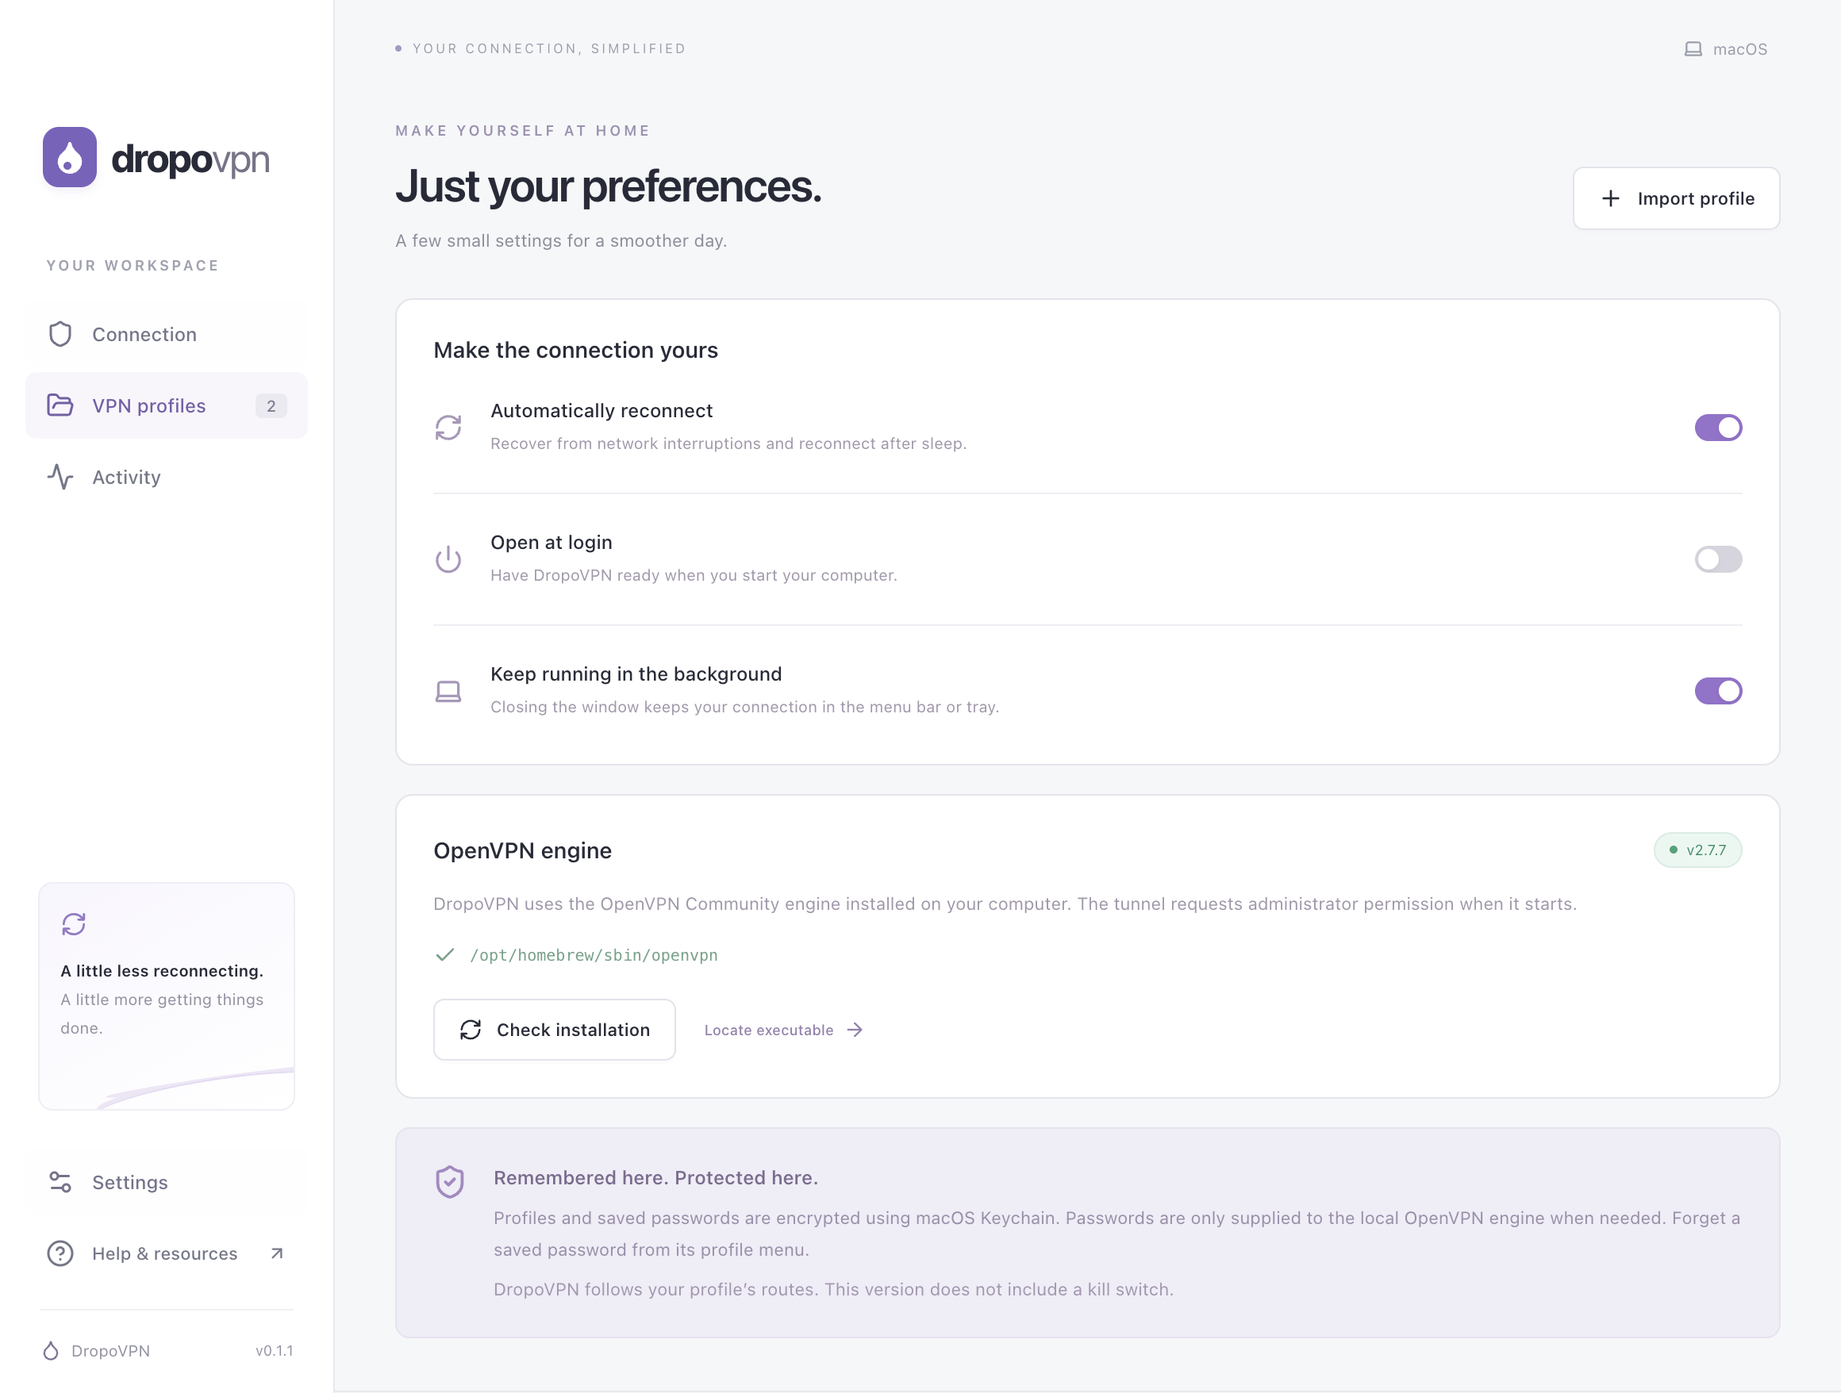
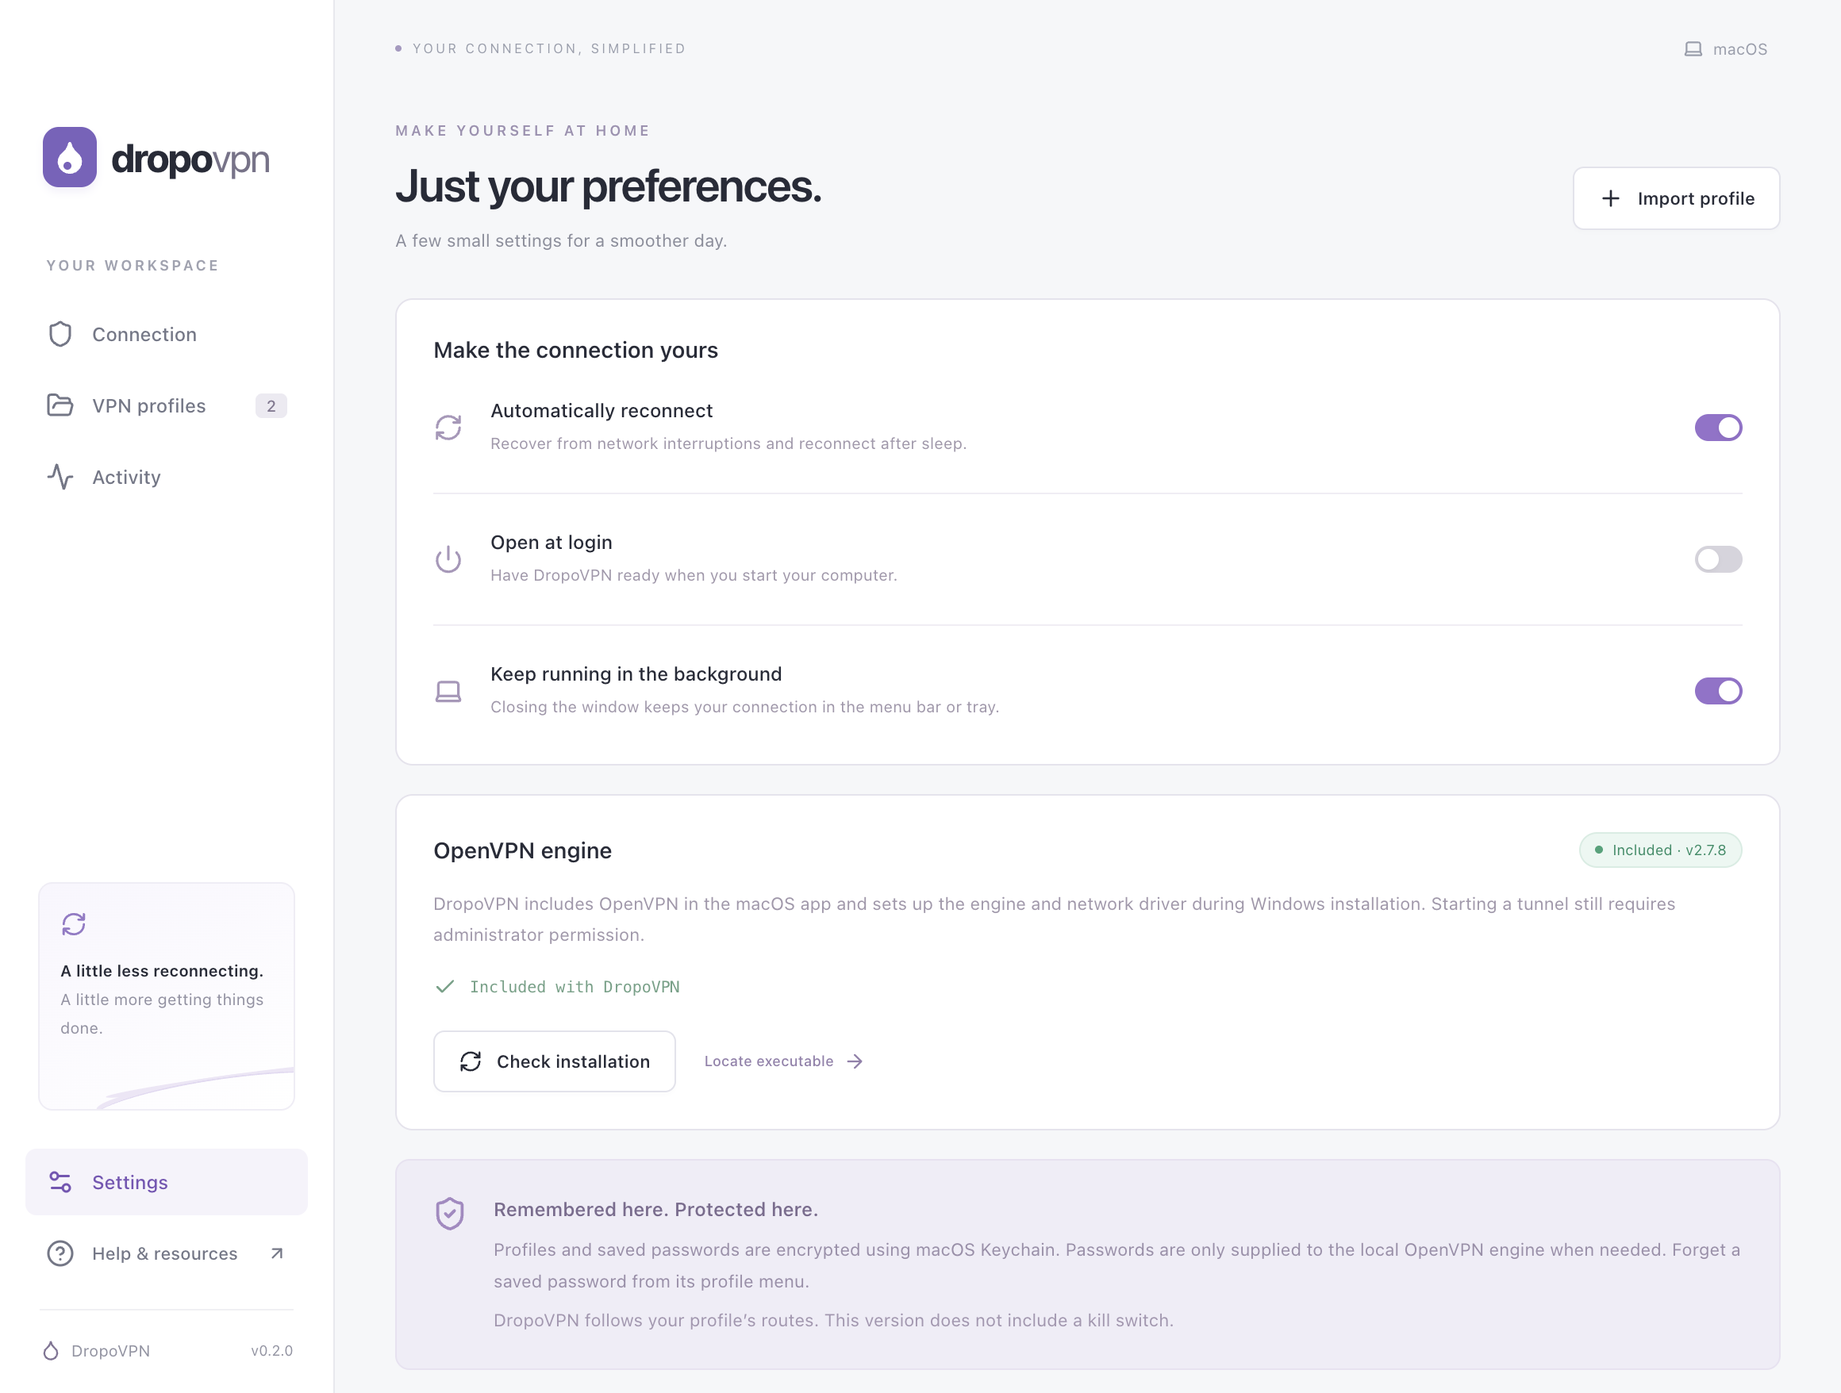
Document the all-in-one installers and refresh download screenshots

diff --git a/website/index.html b/website/index.html
@@ -24,7 +24,7 @@
   </header>
   <main id="main">
     <section class="hero wrap">
-      <a class="release-pill" href="https://github.com/samnimoh/dropovpn/releases/tag/v0.1.1"><span>PUBLIC PREVIEW</span> Meet DropoVPN 0.1.1</a>
+      <a class="release-pill" href="https://github.com/samnimoh/dropovpn/releases/tag/v0.2.0"><span>PUBLIC PREVIEW</span> Meet DropoVPN 0.2.0</a>
       <h1>A calmer connection.<br><em>One less interruption.</em></h1>
       <p class="hero-copy">An OpenVPN client that finds its way back when your network drops. Bring your profile, remember your password, and get on with your day.</p>
       <div class="hero-actions"><a class="button" href="#download">Get DropoVPN</a><a class="button secondary" href="https://github.com/samnimoh/dropovpn">Explore the source</a></div>
@@ -50,21 +50,22 @@
       </div>
     </section>
     <section class="download wrap section" id="download">
-      <div class="center-heading"><p class="eyebrow">MAKE YOURSELF AT HOME</p><h2>Your next connection starts here.</h2><p>DropoVPN 0.1.1 · Public preview · MIT licensed</p></div>
+      <div class="center-heading"><p class="eyebrow">MAKE YOURSELF AT HOME</p><h2>Your next connection starts here.</h2><p>DropoVPN 0.2.0 · Public preview · MIT licensed</p></div>
       <div class="download-grid">
-        <article class="download-card"><span class="platform-label">FOR YOUR MAC</span><h3>macOS</h3><p>Apple Silicon · ARM64</p><a class="button download-button" href="https://github.com/samnimoh/dropovpn/releases/download/v0.1.1/DropoVPN-0.1.1-mac-arm64.dmg">Download for macOS <span>.dmg</span></a><a class="sub-link" href="https://github.com/samnimoh/dropovpn/releases/download/v0.1.1/DropoVPN-0.1.1-mac-arm64.zip">Prefer a ZIP? Download the archive</a><div class="requirements"><strong>Before connecting</strong><p>Install OpenVPN Community 2.6+ with <code>brew install openvpn</code>. An Intel Mac build is not included in this release.</p></div></article>
-        <article class="download-card"><span class="platform-label">FOR YOUR PC</span><h3>Windows</h3><p>Intel & AMD · x64</p><a class="button download-button" href="https://github.com/samnimoh/dropovpn/releases/download/v0.1.1/DropoVPN-0.1.1-win-x64.exe">Download for Windows <span>.exe</span></a><a class="sub-link" href="https://openvpn.net/community-downloads/">Get the OpenVPN Community engine</a><div class="requirements"><strong>Before connecting</strong><p>Install OpenVPN Community 2.6+ including its network driver. Windows ARM devices are not tested.</p></div></article>
+        <article class="download-card"><span class="platform-label">FOR YOUR MAC</span><h3>macOS</h3><p>Apple Silicon · ARM64 · macOS 13+</p><a class="button download-button" href="https://github.com/samnimoh/dropovpn/releases/download/v0.2.0/DropoVPN-0.2.0-mac-arm64.dmg">Download for macOS <span>.dmg</span></a><a class="sub-link" href="https://github.com/samnimoh/dropovpn/releases/download/v0.2.0/DropoVPN-0.2.0-mac-arm64.zip">Prefer a ZIP? Download the archive</a><div class="requirements"><strong>OpenVPN is included</strong><p>Move DropoVPN to Applications and import your profile. No Homebrew or separate engine setup needed. An Intel Mac build is not included in this release.</p></div></article>
+        <article class="download-card"><span class="platform-label">FOR YOUR PC</span><h3>Windows</h3><p>Intel & AMD · x64</p><a class="button download-button" href="https://github.com/samnimoh/dropovpn/releases/download/v0.2.0/DropoVPN-0.2.0-win-x64.exe">Download for Windows <span>.exe</span></a><a class="sub-link" href="#setup">One installer for the app, engine, and driver</a><div class="requirements"><strong>Everything in one setup</strong><p>The installer sets up OpenVPN and its signed network driver. Approve the administrator prompt and restart if requested. Windows ARM devices are not tested.</p></div></article>
       </div>
-      <aside class="preview-note"><strong>A note about this preview</strong><p>These installers are unsigned; macOS and Windows may display security warnings. macOS notarization is not included. Windows runtime behavior and live VPN routing still need testing. Use a VPN profile from a provider or IT team you trust.</p><p>DropoVPN is a client, not a VPN service. The OpenVPN engine and a working profile are required separately. OpenVPN Connect does not supply the engine DropoVPN needs.</p></aside>
-      <div class="release-links"><a href="https://github.com/samnimoh/dropovpn/releases/tag/v0.1.1">Release notes & all files</a><span>·</span><a href="https://github.com/samnimoh/dropovpn/releases/download/v0.1.1/SHA256SUMS.txt">SHA-256 checksums</a></div>
+      <aside class="preview-note"><strong>A note about this preview</strong><p>These installers are unsigned; macOS and Windows may display security warnings. macOS notarization is not included. Live VPN routing and reconnection still need testing with your server. Use a VPN profile from a provider or IT team you trust.</p><p>DropoVPN is a client, not a VPN service. OpenVPN 2.7.8 is included; you bring a working .ovpn profile from your provider or IT team. Starting a tunnel still requires administrator permission.</p></aside>
+      <div class="release-links"><a href="https://github.com/samnimoh/dropovpn/releases/tag/v0.2.0">Release notes & all files</a><span>·</span><a href="https://github.com/samnimoh/dropovpn/releases/download/v0.2.0/SHA256SUMS.txt">SHA-256 checksums</a></div>
     </section>
-    <section class="setup wrap section" id="setup"><div class="section-intro"><p class="eyebrow">THREE SMALL STEPS</p><h2>Bring your own<br>connection.</h2><p>No new account to create. Use the network and credentials you already have.</p></div><ol class="steps"><li><span>1</span><div><h3>Install the app and engine.</h3><p>Download DropoVPN for your computer and install OpenVPN Community 2.6 or later.</p></div></li><li><span>2</span><div><h3>Import your .ovpn profile.</h3><p>Choose “Import profile” and select the file from your VPN provider or IT team. Keep any separate certificates alongside the file.</p></div></li><li><span>3</span><div><h3>Connect. Remember. Settle in.</h3><p>Enter your VPN credentials and choose “Remember me on this device.” Approve the system administrator prompt to start your tunnel.</p></div></li></ol></section>
+    <section class="setup wrap section" id="setup"><div class="section-intro"><p class="eyebrow">THREE SMALL STEPS</p><h2>Bring your own<br>connection.</h2><p>No new account to create. Use the network and credentials you already have.</p></div><ol class="steps"><li><span>1</span><div><h3>Install once.</h3><p>Download DropoVPN for your computer. The Mac app contains its engine; Windows setup installs the engine and network driver for you.</p></div></li><li><span>2</span><div><h3>Import your .ovpn profile.</h3><p>Choose “Import profile” and select the file from your VPN provider or IT team. Keep any separate certificates alongside the file.</p></div></li><li><span>3</span><div><h3>Connect. Remember. Settle in.</h3><p>Enter your VPN credentials and choose “Remember me on this device.” Approve the system administrator prompt to start your tunnel.</p></div></li></ol></section>
     <section class="faq wrap section" aria-labelledby="faq-title"><div><p class="eyebrow">GOOD TO KNOW</p><h2 id="faq-title">A little clarity.</h2></div><div class="questions">
       <details><summary>What happens when my connection drops?</summary><p>With automatic reconnection enabled, DropoVPN retries using the same session credentials. Retry delays increase up to 30 seconds. Rejected passwords pause the connection so you can correct them. If the engine exits and must restart, your computer may ask for administrator permission again. Disconnecting manually stops retries.</p></details>
       <details><summary>Where are my saved passwords stored?</summary><p>On your computer, encrypted with Electron safeStorage using macOS Keychain or Windows DPAPI. DropoVPN supplies credentials to the local OpenVPN engine when needed. You can forget a saved password from the profile menu. Windows DPAPI does not protect against every program running as your Windows user.</p></details>
       <details><summary>Does it work with my existing VPN?</summary><p>DropoVPN supports imported OpenVPN TUN profiles with username/password or certificate authentication. One-time codes, browser sign-in, proxy authentication, hardware tokens, TAP profiles, and connection blocks are not supported in this preview. Some provider-specific configurations may need a compatible export.</p></details>
+      <details><summary>What happens when I uninstall DropoVPN?</summary><p>On macOS, the engine is part of the app and is removed with it. On Windows, OpenVPN and its driver are shared system components and stay installed. You can remove OpenVPN separately in Windows Installed Apps if no other VPN application needs it.</p></details>
       <details><summary>Does DropoVPN include a kill switch?</summary><p>No. Your profile controls routing, and traffic is not automatically blocked while reconnecting. A split-tunnel profile only routes the destinations it specifies through the VPN.</p></details>
-      <details><summary>Is it free and open source?</summary><p>Yes. DropoVPN’s application source is available under the MIT license. OpenVPN is installed separately and has its own license. <a href="https://github.com/samnimoh/dropovpn">Read the source</a> or <a href="https://github.com/samnimoh/dropovpn/issues">report an issue</a> on GitHub.</p></details>
+      <details><summary>Is it free and open source?</summary><p>Yes. DropoVPN’s application source is available under the MIT license. The included OpenVPN components retain their own licenses. <a href="https://github.com/samnimoh/dropovpn/releases/download/v0.2.0/DropoVPN-0.2.0-runtime-sources.tar.gz">Download the runtime sources</a> and build instructions. <a href="https://github.com/samnimoh/dropovpn">Read the source</a> or <a href="https://github.com/samnimoh/dropovpn/issues">report an issue</a> on GitHub.</p></details>
     </div></section>
   </main>
   <footer class="wrap site-footer"><div><a class="brand" href="#" aria-label="DropoVPN home"><img src="/assets/icon.svg" width="30" height="30" alt="">dropo<span>vpn</span></a><p>A calmer connection.</p></div><div class="footer-links"><a href="https://github.com/samnimoh/dropovpn">Source code</a><a href="https://github.com/samnimoh/dropovpn/issues">Report an issue</a><a href="https://github.com/samnimoh/dropovpn/blob/main/LICENSE">MIT license</a></div><p class="footer-note">Independent open-source project.<br>Not affiliated with OpenVPN Inc.</p></footer>

diff --git a/README.md b/README.md
@@ -2,7 +2,7 @@
 
 An Electron OpenVPN client for macOS and Windows, with automatic reconnection and an encrypted, per-profile saved password. The desktop interface uses React and TypeScript; the main process manages OpenVPN and credential storage.
 
-**[Visit the download website](https://dropovpn.vercel.app)** · [Download the public preview](https://github.com/samnimoh/dropovpn/releases/tag/v0.1.1) · [Report an issue](https://github.com/samnimoh/dropovpn/issues) · [MIT license](LICENSE)
+**[Visit the download website](https://dropovpn.vercel.app)** · [Download the public preview](https://github.com/samnimoh/dropovpn/releases/tag/v0.2.0) · [Report an issue](https://github.com/samnimoh/dropovpn/issues) · [MIT license](LICENSE)
 
 ![DropoVPN connection screen with example profiles](website/assets/screenshots/connection.png)
 
@@ -10,14 +10,14 @@ An Electron OpenVPN client for macOS and Windows, with automatic reconnection an
 
 | Platform | Installer | Architecture |
 | --- | --- | --- |
-| macOS | [DMG](https://github.com/samnimoh/dropovpn/releases/download/v0.1.1/DropoVPN-0.1.1-mac-arm64.dmg) · [ZIP](https://github.com/samnimoh/dropovpn/releases/download/v0.1.1/DropoVPN-0.1.1-mac-arm64.zip) | Apple Silicon / ARM64 |
-| Windows | [Installer](https://github.com/samnimoh/dropovpn/releases/download/v0.1.1/DropoVPN-0.1.1-win-x64.exe) | Intel / AMD x64 |
+| macOS | [DMG](https://github.com/samnimoh/dropovpn/releases/download/v0.2.0/DropoVPN-0.2.0-mac-arm64.dmg) · [ZIP](https://github.com/samnimoh/dropovpn/releases/download/v0.2.0/DropoVPN-0.2.0-mac-arm64.zip) | Apple Silicon / ARM64 |
+| Windows | [Installer](https://github.com/samnimoh/dropovpn/releases/download/v0.2.0/DropoVPN-0.2.0-win-x64.exe) | Intel / AMD x64 |
 
-[Release notes](https://github.com/samnimoh/dropovpn/releases/tag/v0.1.1) · [SHA-256 checksums](https://github.com/samnimoh/dropovpn/releases/download/v0.1.1/SHA256SUMS.txt)
+[Release notes](https://github.com/samnimoh/dropovpn/releases/tag/v0.2.0) · [SHA-256 checksums](https://github.com/samnimoh/dropovpn/releases/download/v0.2.0/SHA256SUMS.txt)
 
-**Version 0.1.1 is an unsigned public preview.** macOS notarization is not included; your operating system may display security warnings. The macOS app has been launched and tested locally. The Windows installer was cross-built; Windows runtime/elevation and live VPN routing still require testing. There is no Intel Mac installer in this release.
+**Version 0.2.0 is an unsigned public preview.** macOS notarization is not included; your operating system may display security warnings. The installers include the OpenVPN runtime. Windows setup installs the signed TAP-Windows6 network driver and requires administrator permission. Live VPN routing and reconnection still require testing with your own server. There is no Intel Mac installer in this release.
 
-DropoVPN is a client, not a VPN service. Install OpenVPN Community 2.6+ separately and bring a working `.ovpn` profile. OpenVPN Connect does not provide the executable this application uses. There is no kill switch; traffic is not blocked during reconnection.
+DropoVPN is a client, not a VPN service. OpenVPN is included: macOS uses the engine inside the app; Windows installs the official OpenVPN engine and signed TAP-Windows6 driver in the same setup flow. Bring a working `.ovpn` profile. There is no kill switch; traffic is not blocked during reconnection.
 
 ## Screenshots
 
@@ -52,7 +52,9 @@ For development with hot reload:
 npm run dev
 ```
 
-Install **OpenVPN Community 2.6 or newer** separately. OpenVPN Connect is a different product and does not provide the executable used here.
+Downloaded installers include OpenVPN 2.7.8. No Homebrew or separate OpenVPN installer is needed for normal use. macOS requires version 13 or later; Windows builds target x64 PCs. A system administrator prompt is still required when starting a tunnel.
+
+For **development from source**, either build the bundled runtime or use an existing OpenVPN Community 2.6+ installation:
 
 - **macOS:** `brew install openvpn`. DropoVPN checks the standard Apple Silicon and Intel Homebrew locations. You can also select an executable in Settings.
 - **Windows:** install [OpenVPN Community](https://openvpn.net/community-downloads/) including its network driver. The default path is `C:\Program Files\OpenVPN\bin\openvpn.exe`.
@@ -100,9 +102,9 @@ npm run dist:win       # NSIS installer on Windows
 
 The test suite includes a real OpenVPN management handshake when the executable is installed. That test uses `dev null` and loopback, with no elevation, tunnel, route changes or external VPN server. It skips if the engine is unavailable. The protocol tests cover credential replay, rejection, engine crashes, explicit disconnect, wake from sleep, and peer impersonation. Store tests exercise encryption through an injected cipher; the desktop application uses the operating system's provider.
 
-GitHub Actions builds on native macOS and Windows runners and uploads installers. OpenVPN and its driver are not bundled. Installers are unsigned until release signing credentials are supplied. For distribution, configure Electron Builder's macOS Developer ID/notarization and Windows signing; consistent macOS signing also avoids unnecessary Keychain prompts across updates. The development toolchain currently has transitive moderate `sprintf-js` advisories through Electron Builder; `npm audit --omit=dev` reports no production dependency advisories at the time of implementation.
+GitHub Actions builds on native macOS and Windows runners and uploads installers. The macOS app bundles a static OpenVPN runtime, with no Homebrew library dependencies. Windows setup embeds the official, checksum-pinned OpenVPN MSI and verifies its Authenticode publisher signature before installing the engine and TAP driver. The installer handles restart-required results and stops with a clear error if dependency setup fails. Existing compatible engine/driver installations are reused; a newer incompatible installation is never silently downgraded. Uninstalling DropoVPN leaves shared OpenVPN components installed; remove those through Windows Installed Apps only if no other VPN client uses them. Installers are unsigned until release signing credentials are supplied. For distribution, configure Electron Builder's macOS Developer ID/notarization and Windows signing; consistent macOS signing also avoids unnecessary Keychain prompts across updates. The development toolchain currently has transitive moderate `sprintf-js` advisories through Electron Builder; `npm audit --omit=dev` reports no production dependency advisories at the time of implementation.
 
-A real VPN profile/server is required to validate end-to-end routing, DNS and reconnect behavior for your environment. Windows elevation and driver behavior must also be verified on a Windows machine; a macOS build does not validate them.
+A real VPN profile/server is required to validate end-to-end routing, DNS and reconnect behavior for your environment. CI tests the dependency setup and complete DropoVPN installer on a Windows runner. That checks installation, executable startup, and driver registration; it does not validate routing through a live server.
 
 ## Implementation references
 
@@ -110,7 +112,9 @@ A real VPN profile/server is required to validate end-to-end routing, DNS and re
 - [OpenVPN 2.7 manual](https://openvpn.net/community-docs/community-articles/openvpn-2-7-manual.html)
 - [Electron safeStorage](https://www.electronjs.org/docs/latest/api/safe-storage)
 
-Application source is MIT licensed. OpenVPN is distributed separately under its own license.
+Application source is MIT licensed. OpenVPN and its runtime dependencies retain their own licenses. See [third-party notices](THIRD-PARTY-NOTICES.txt). Each release includes [corresponding runtime sources and build recipes](https://github.com/samnimoh/dropovpn/releases/download/v0.2.0/DropoVPN-0.2.0-runtime-sources.tar.gz).
+
+The pinned downloads are recorded in `build/runtime-lock.json` and `build/windows-runtime.json`. `npm run runtime:mac` builds the engine from source using Xcode command line tools and pkg-config. `npm run runtime:win` prepares the signed upstream MSI. Run `node scripts/package-runtime-sources.mjs` before publishing installers to produce the matching source archive.
 
 ## Download website
 
